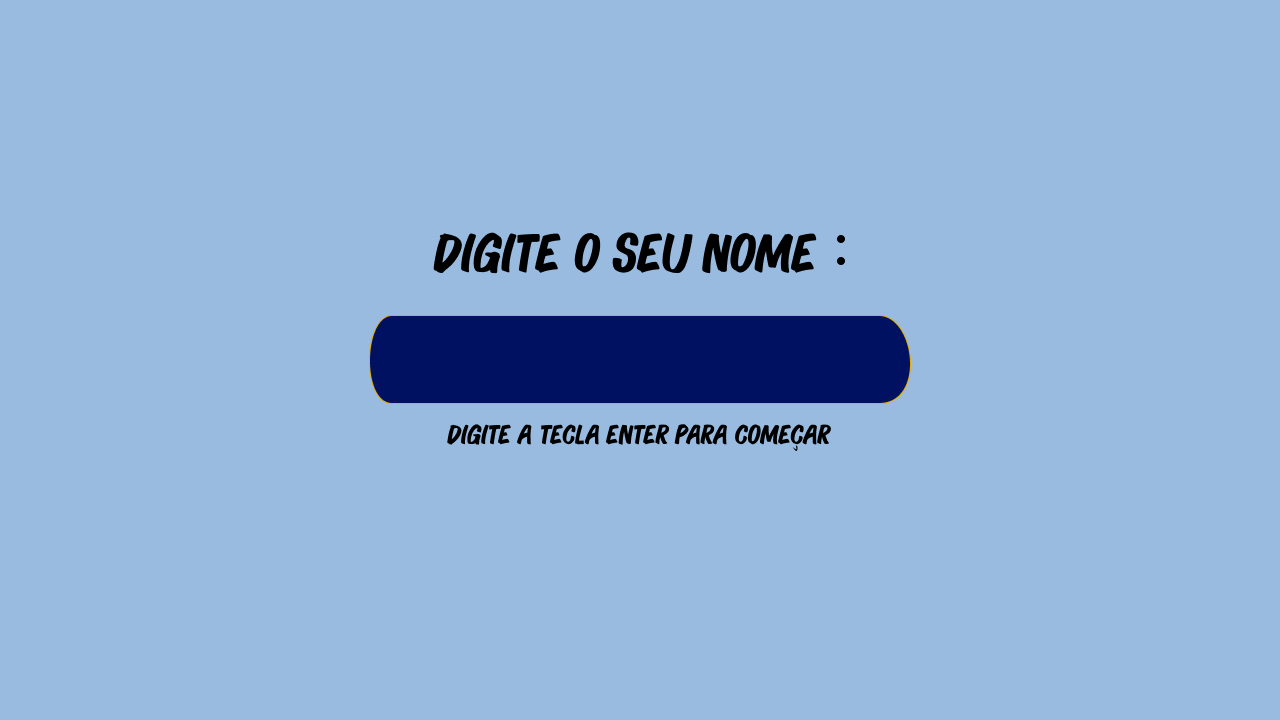
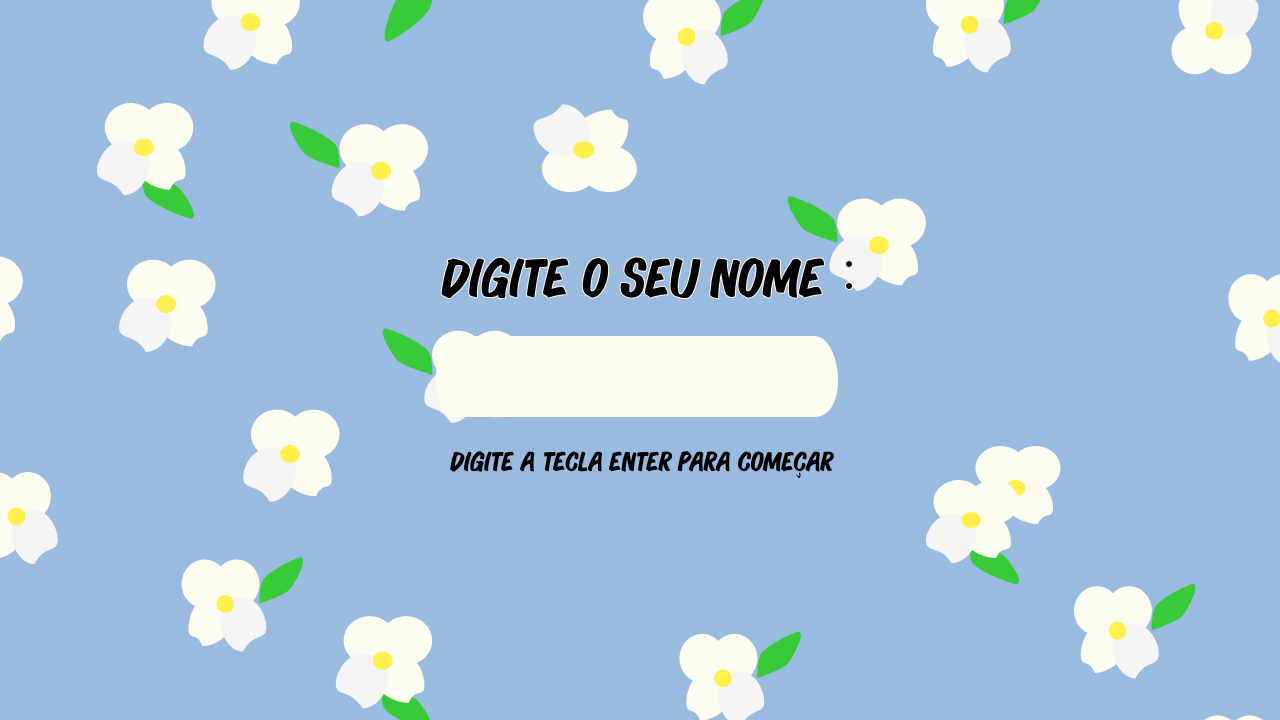
ui tela nome jogador

diff --git a/src/jogo.c b/src/jogo.c
@@ -481,7 +481,7 @@ void desenharJogo(Jogo *jogo)
                 540,
                 60
             };
-            DrawText(jogo->nomeJogador,caixaNome.x + 20,caixaNome.y + 15,30,WHITE);
+            DrawText(jogo->nomeJogador,caixaNome.x + 20,caixaNome.y + 15,30,BLACK);
         }
     
 